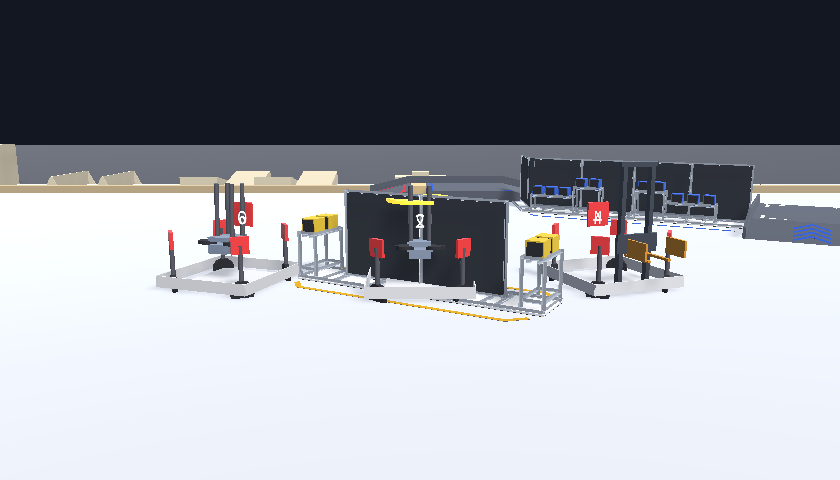
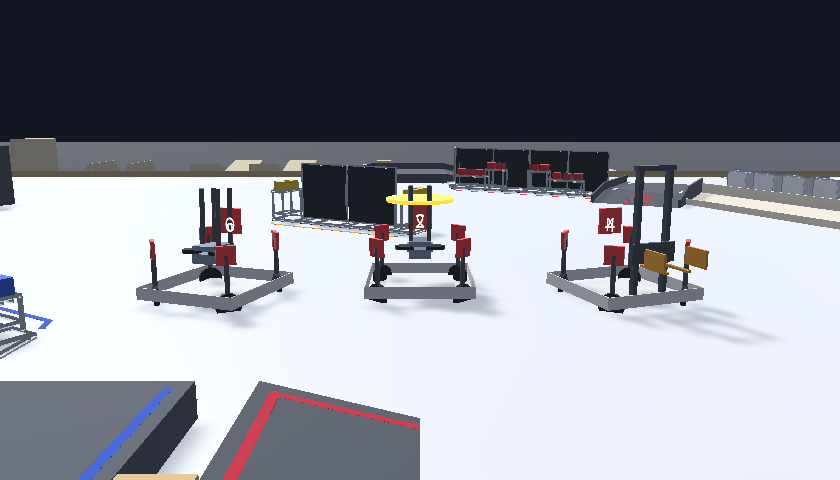
TutorialShots: 全景の注視点をフィールドの中心に合わせる

Changed region(s): [[0.0, 0.2812, 1.0, 0.7188], [0.0, 0.7812, 0.5262, 1.0], [0.0, 0.5625, 0.0619, 0.75]]

diff --git a/Assets/Editor/TutorialShots.cs b/Assets/Editor/TutorialShots.cs
@@ -47,7 +47,8 @@ namespace CoreSim.Editor
             new Shot
             {
                 Name = "intro_field", Width = 1520, Height = 860, Fov = 52f,
-                Camera = new Vector3(-17f, 12f, -15f), LookAt = new Vector3(0.5f, 0f, 0.5f),
+                // 注視点をフィールドの中心 (原点) にすると、フィールドの中心が画像の中心に来る
+                Camera = new Vector3(-15f, 12.5f, -16f), LookAt = new Vector3(0f, 0f, 0f),
                 Bots = new[]
                 {
                     new Bot(RobotKind.Attacker, true, new Vector3(-5f, 0f, -1.5f), 70f, head: true),
